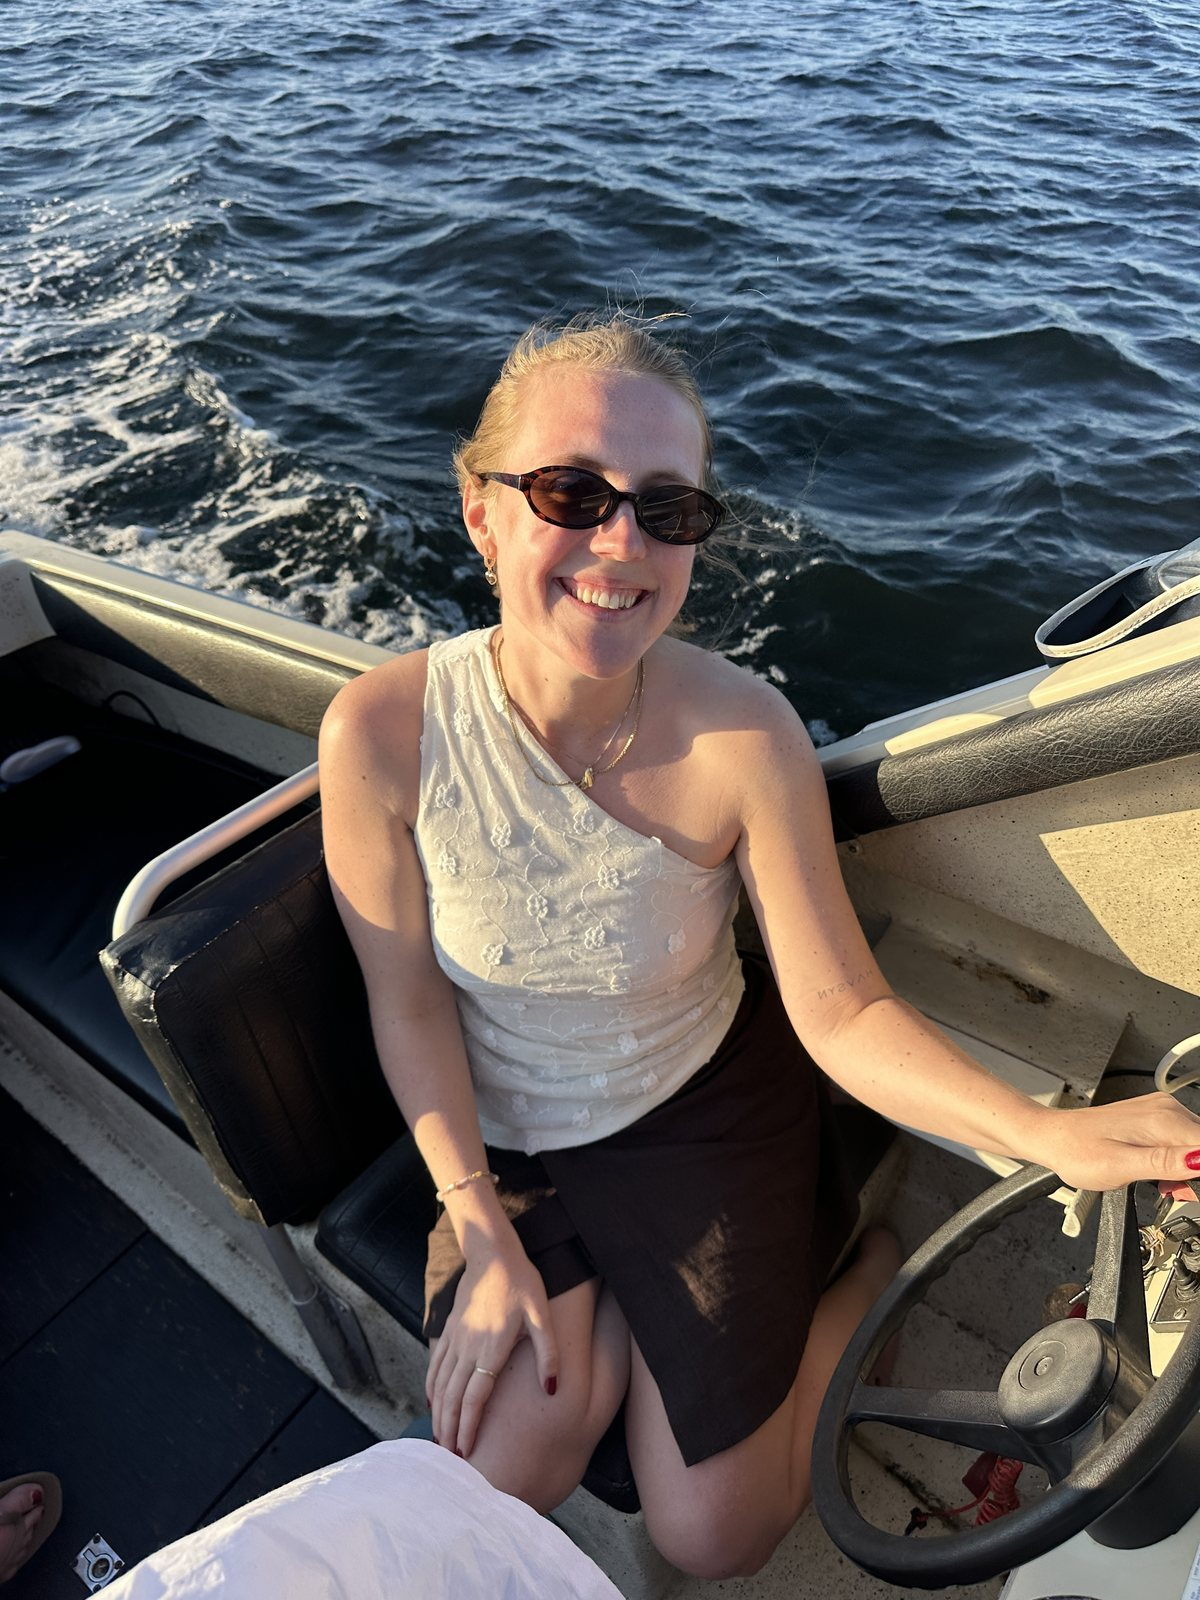
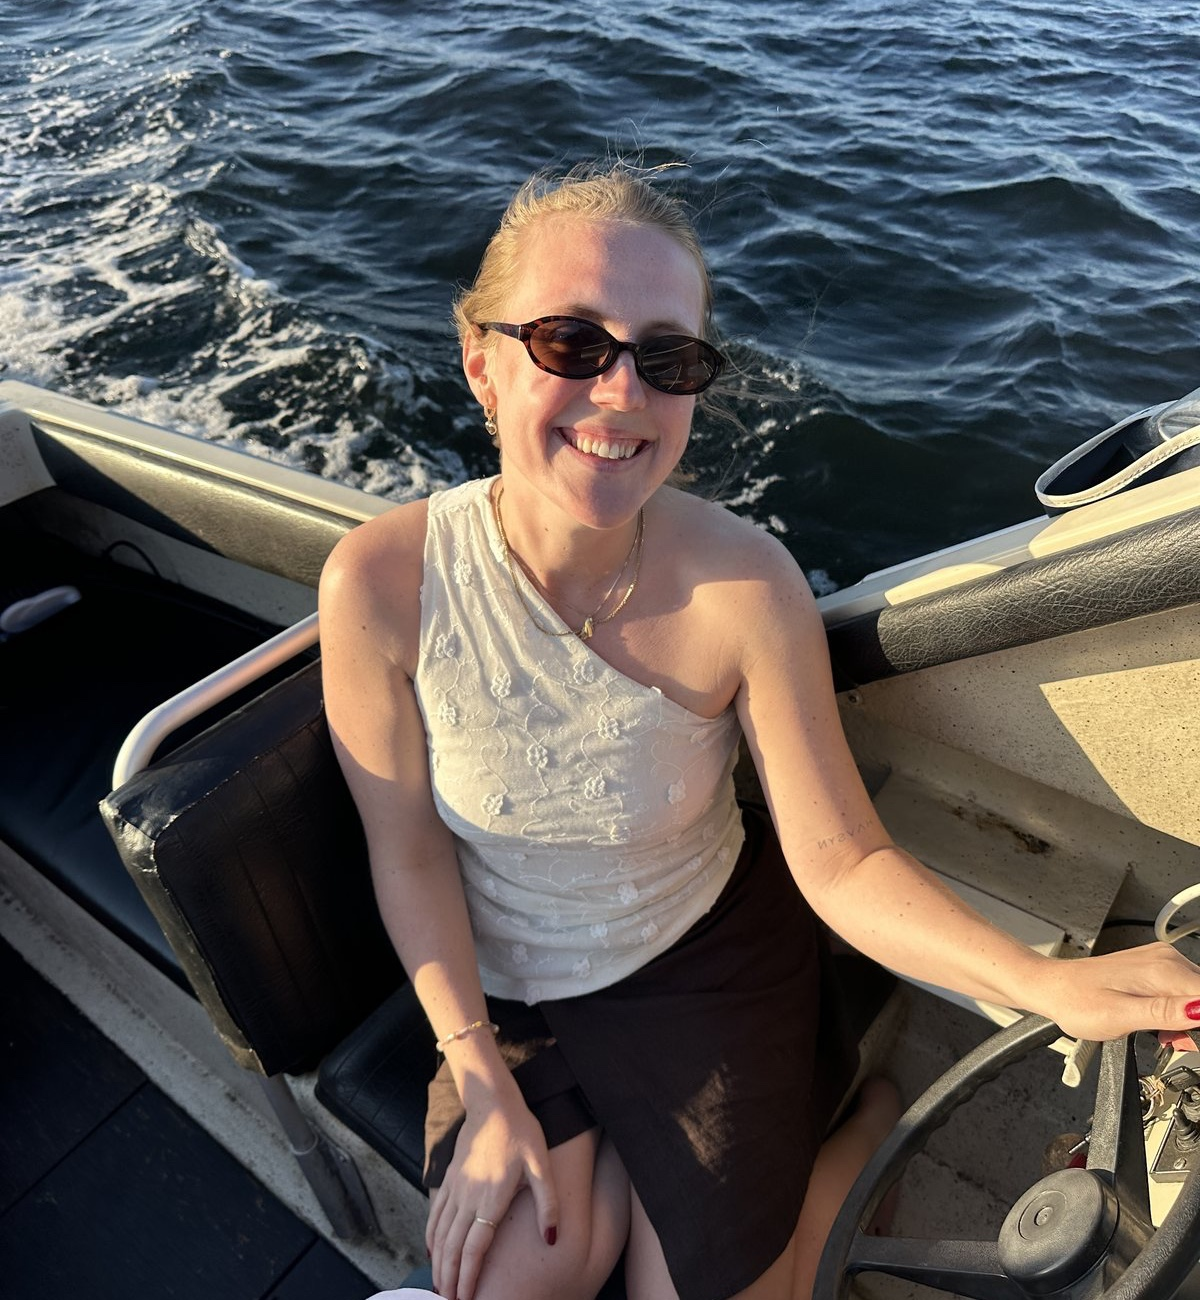
Oppdater bilder: beskåret Kaia-bilde, nytt mobilbilde og fjernet stripe i HAVN desktop

diff --git a/app/page.tsx b/app/page.tsx
@@ -102,7 +102,7 @@ export default function Home() {
               src="/images/kaia.jpg"
               alt="Kaia i en båt på Oslofjorden"
               width={1200}
-              height={1600}
+              height={1300}
               sizes="(min-width: 768px) 40vw, 100vw"
             />
             <figcaption className="mt-2 text-[11px] text-muted">Kaia, et sted på Oslofjorden</figcaption>
